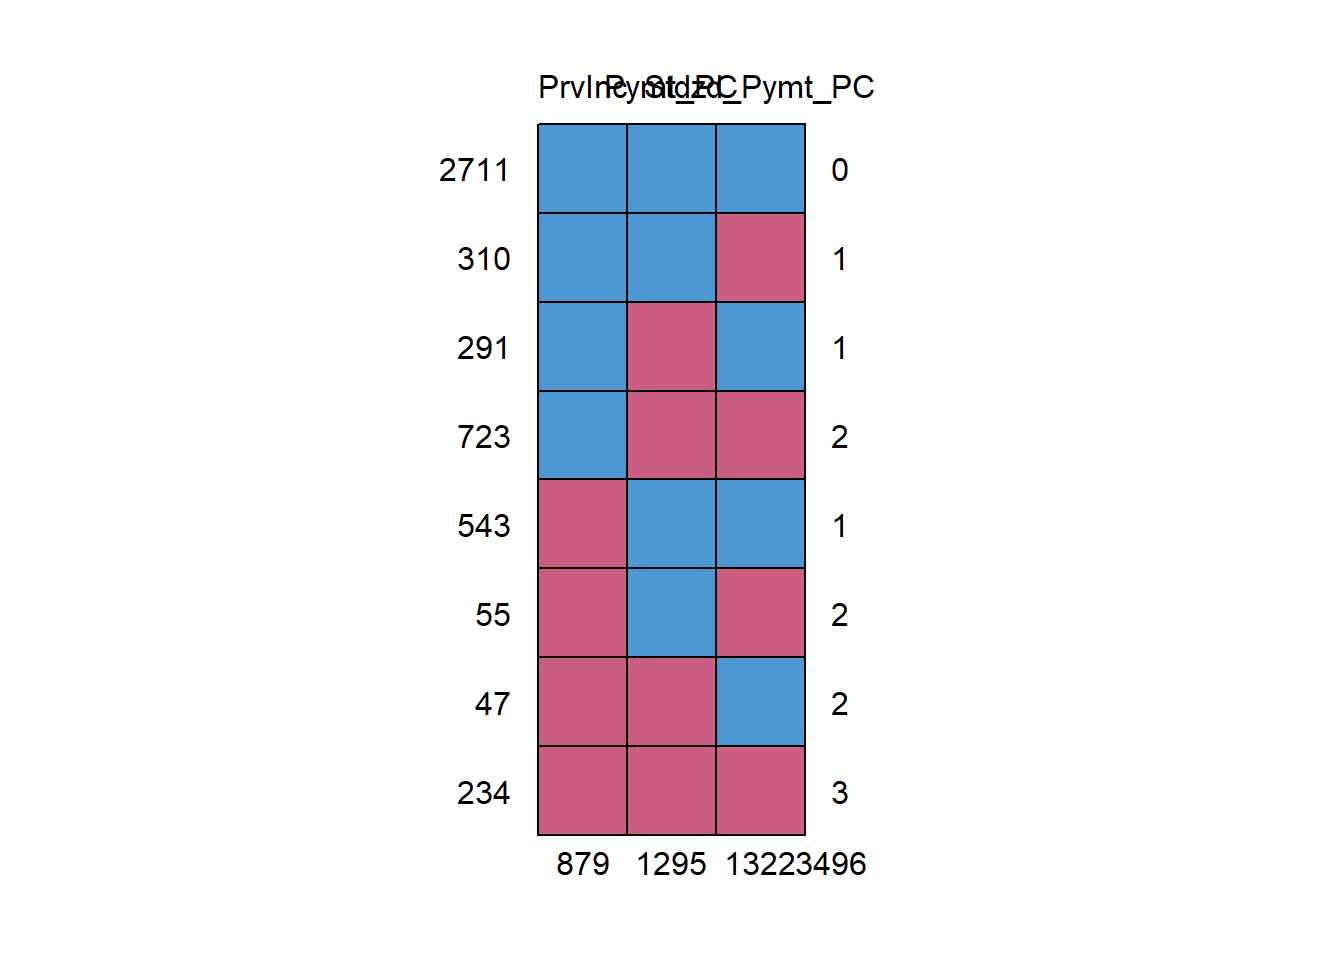
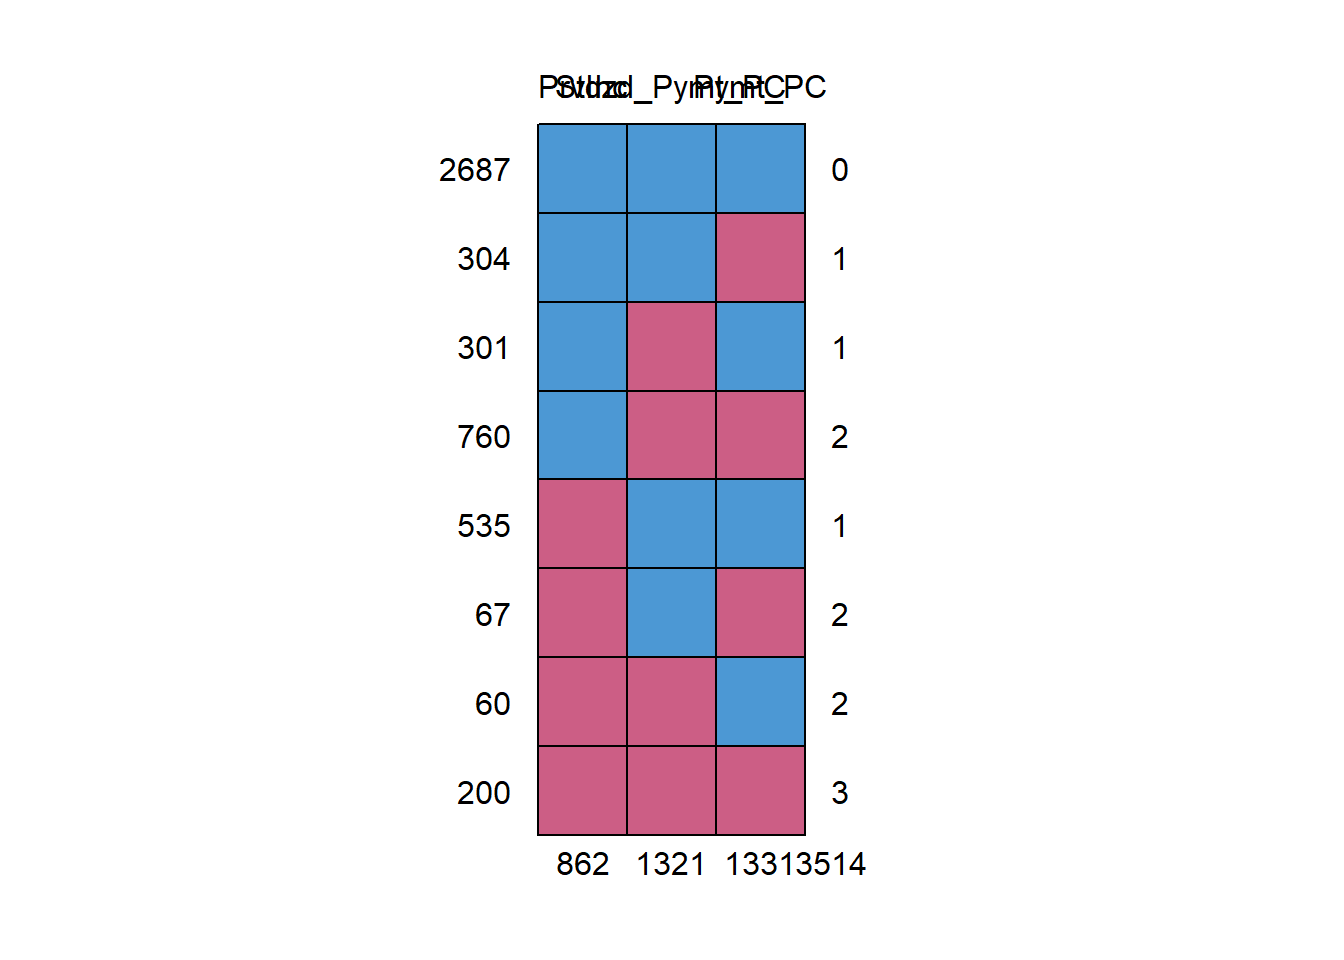
Equation issues...

diff --git a/index.html b/index.html
@@ -164,11 +164,15 @@ div.csl-indent {
 <h2 class="anchored" data-anchor-id="methods">Methods</h2>
 <p>The dataset used to conduct the below Missing Imputation methods was adapted from the most recent study conducted by the U.S. Department of Health &amp; Human Services which examined 21 specific chronic illnesses of Medicare beneficiaries <span class="citation" data-cites="CMMS">(<a href="#ref-CMMS" role="doc-biblioref">Medicare &amp; Medicaid Services 2018</a>)</span>.</p>
 <p>The Multiple Imputation (MI) approach is used to correct the issue of imputing multiple times the missing values from the predictive distribution of the missing given observed data. “Next, the analysis model is fitted to each ‘complete’ data set and results combined using Rubin’s rules” <span class="citation" data-cites="k13">(<a href="#ref-k13" role="doc-biblioref">Kang 2013</a>)</span>. Bias can be reduced and efficiency increased by using in the imputation step the auxiliary variables (predictive of missing values but not in the substantive model). The MI method is good but is not appropriate for handling all missing data records.</p>
-<p>There is a three-step process for conducting a statistical analysis of MI. The stages are 1) Selecting independent variables that may help impute variables with missing data, 2) Noting the chosen statistical method, estimating in each of the imputed datasets the association of interest, and 3) Combining using Rubin’s rules the association measures from each imputed dataset <span class="citation" data-cites="r76">(<a href="#ref-r76" role="doc-biblioref">Rubin 1976</a>)</span>. To combine, we use the following equations for Standard Error(SE), Arithmetic Average(W) and the Variability of the estimates(B), where t is a particular dataset, m is the total amount of imputed datasets, <span class="math inline">\(\hat{\theta}\)</span> and <span class="math inline">\(\bar{\theta_t}\)</span> are the average parameter estimate and the parameter estimate for a particular dataset, respectively. <span class="citation" data-cites="oap18">(<a href="#ref-oap18" role="doc-biblioref">Osman, Abu-Mahfouz, and Page 2018</a>)</span></p>
-<p>$$ W=}{m} </p>
-<p>B=}{m-1} </p>
-<p>SE= </p>
-<p>$$</p>
+<p>There is a three-step process for conducting a statistical analysis of MI. The stages are 1) Selecting independent variables that may help impute variables with missing data, 2) Noting the chosen statistical method, estimating in each of the imputed datasets the association of interest, and 3) Combining using Rubin’s rules the association measures from each imputed dataset <span class="citation" data-cites="r76">(<a href="#ref-r76" role="doc-biblioref">Rubin 1976</a>)</span>. To combine, we use the following equations for Standard Error(SE), Arithmetic Average(W) and the Variability of the estimates(B), where t is a particular dataset, m is the total amount of imputed datasets, <span class="math inline">\(\bar{\theta}\)</span> and <span class="math inline">\(\hat{\theta_t}\)</span> are the average parameter estimate and the parameter estimate for a particular dataset, respectively. <span class="citation" data-cites="oap18">(<a href="#ref-oap18" role="doc-biblioref">Osman, Abu-Mahfouz, and Page 2018</a>)</span></p>
+<p><span class="math display">\[
+W=\frac{\sum({SE_t}^2)}{m} \tag{1}
+\]</span> <span class="math display">\[
+B=\frac{\sum(\hat{\theta_t}-\bar{\theta})^2}{m-1} \tag{2}
+\]</span></p>
+<p><span class="math display">\[
+SE=\sqrt{W+B+\frac{B}{m}}
+\]</span></p>
 <p><span class="citation" data-cites="ljlmw14">(<a href="#ref-ljlmw14" role="doc-biblioref">Little et al. 2014</a> )</span> provide exceptional detail on how to alleviate missing data using full-information maximum likelihood and multiple imputations followed by a presentation of 3-form planned missing design to include multiform questionnaire protocols, 2-method measurement models, and wave-missing longitudinal designs.</p>
 <p>TARMOS consists of three main steps with a series of subsets within each step. The steps are as follows. Step 1: Plan the analysis, step 2: Conduct the preplanned analysis, step 3: Report the analysis <span class="citation" data-cites="ltclbghc21">(<a href="#ref-ltclbghc21" role="doc-biblioref">Lee et al. 2021</a>)</span>. The framework’s emphasis is on transparency. All expectations of the analysis and the research interests should be disclosed.</p>
 <p>One proposed method which we deem computationally feasible for this project is multiple imputation <span class="citation" data-cites="ljlmw14">(<a href="#ref-ljlmw14" role="doc-biblioref">Little et al. 2014</a> )</span>. The methodology includes performing single imputation with multiple data sets, analyzing and computing the error of each set, and combining the data into a single, final data set.</p>
@@ -639,16 +643,16 @@ div.csl-indent {
 <p><img src="index_files/figure-html/unnamed-chunk-6-1.png" class="img-fluid" width="672"></p>
 </div>
 <div class="cell-output cell-output-stdout">
-<pre><code>     PrvInc Pymt_PC Stdzd_Pymt_PC     
-2711      1       1             1    0
-310       1       1             0    1
-291       1       0             1    1
-723       1       0             0    2
-543       0       1             1    1
-55        0       1             0    2
-47        0       0             1    2
-234       0       0             0    3
-        879    1295          1322 3496</code></pre>
+<pre><code>     PrvInc Stdzd_Pymt_PC Pymt_PC     
+2687      1             1       1    0
+304       1             1       0    1
+301       1             0       1    1
+760       1             0       0    2
+535       0             1       1    1
+67        0             1       0    2
+60        0             0       1    2
+200       0             0       0    3
+        862          1321    1331 3514</code></pre>
 </div>
 </div>
 <p>Additionally, we ran the miss Forest package in R. We ran the package followed by a summary to gain a better quantitative view. Below are the code, results, and figure.</p>
@@ -672,12 +676,12 @@ div.csl-indent {
 <div class="cell-output cell-output-stdout">
 <pre><code>     PrvInc       Stdzd_Pymt_PC      Pymt_PC      
  Min.   :0.0000   Min.   :    0   Min.   :     0  
- 1st Qu.:0.0381   1st Qu.:18655   1st Qu.: 18387  
- Median :0.1110   Median :23300   Median : 22992  
- Mean   :0.1723   Mean   :24075   Mean   : 24055  
- 3rd Qu.:0.2753   3rd Qu.:28192   3rd Qu.: 28260  
- Max.   :0.7588   Max.   :68567   Max.   :100028  
- NA's   :879      NA's   :1322    NA's   :1295    </code></pre>
+ 1st Qu.:0.0391   1st Qu.:18587   1st Qu.: 18398  
+ Median :0.1122   Median :23165   Median : 22903  
+ Mean   :0.1728   Mean   :24022   Mean   : 23997  
+ 3rd Qu.:0.2772   3rd Qu.:28143   3rd Qu.: 28229  
+ Max.   :0.7566   Max.   :89235   Max.   :100028  
+ NA's   :862      NA's   :1321    NA's   :1331    </code></pre>
 </div>
 </div>
 <div class="cell">
